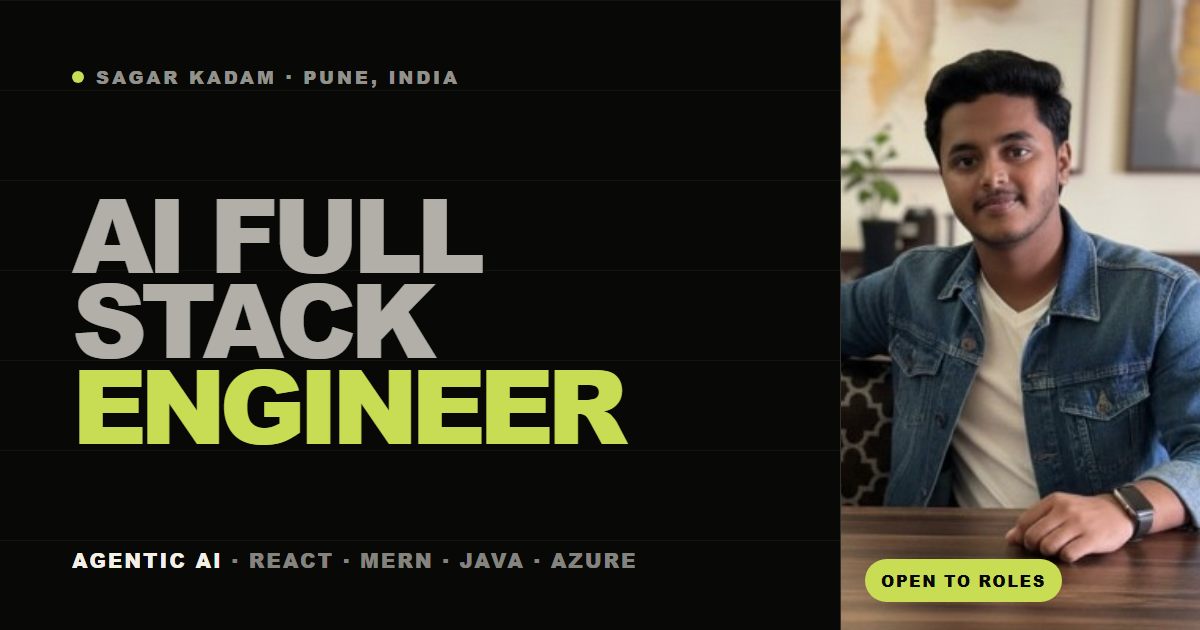
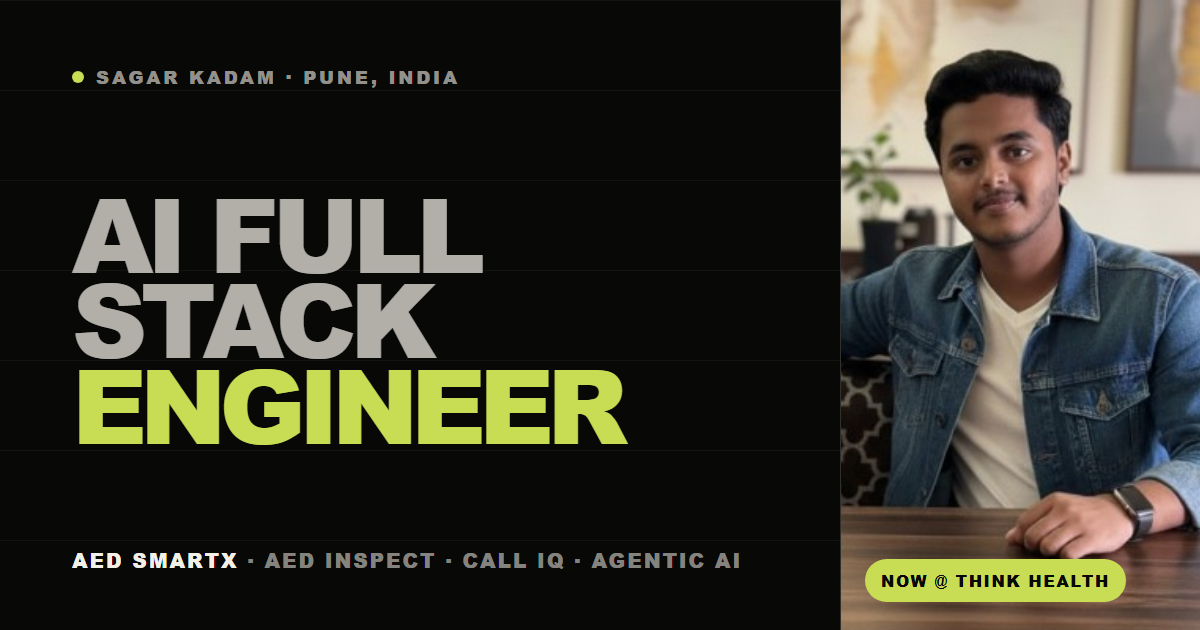
Reframe the site around the current Think Health role.
Replaces job-seeker copy (internships count, "targeting", "available for
work") with current-role metrics, marks SageAlpha as a prior role with
links to both companies, and updates the share image.

Changed region(s): [[0.0617, 0.8746, 0.6167, 0.9048], [0.74, 0.8746, 0.9558, 0.9651]]

diff --git a/src/App.jsx b/src/App.jsx
@@ -30,6 +30,7 @@ const PROFILE = {
   aedSmartxLive: "https://aedsmartx.com",
   aedInspectLive: "https://inspector.aedsmartx.com",
   thinkHealth: "https://www.thinkhealth.in",
+  sageAlpha: "https://sagealpha.ai",
   location: "Pune, India",
   graduation: "May 2026",
   heroImage: "/sagar-hero.png",
@@ -72,6 +73,7 @@ const navLinks = [
 const experience = [
   {
     company: "Think Health Care & Safety",
+    site: PROFILE.thinkHealth,
     role: "AI Full Stack Engineer",
     period: "Pune · Present",
     highlight: "AED SmartX + AED Inspect — live",
@@ -87,8 +89,9 @@ const experience = [
   },
   {
     company: "SageAlpha Analytics",
+    site: PROFILE.sageAlpha,
     role: "Frontend Developer & AI Integration Intern",
-    period: "Pune · Present",
+    period: "Pune · Prior role",
     highlight: "Call IQ — Live on Azure",
     body: "Designed and implemented React UI flows for Call IQ, an AI-powered call intelligence platform. Integrated agentic AI workflows for multi-step automation, real-time transcription insights, and automated follow-up support. Deployed frontend builds on Microsoft Azure Static Web Apps.",
     image: "https://images.unsplash.com/photo-1556761175-5973dc0f32e7?auto=format&fit=crop&w=1400&q=90",
@@ -255,11 +258,22 @@ const education = [
 ];
 
 const metrics = [
-  { value: "8.80", label: "BE CGPA", sub: "Computer Engineering", count: true, decimals: 2 },
-  { value: "4", label: "Internships", sub: "AI · React · Java · OSS", count: true, decimals: 0 },
-  { value: "Live", label: "Production", sub: "AED SmartX · Call IQ · SaaS" },
-  { value: "GSSoC", label: "Open Source", sub: "Contributor '25" },
-  { value: "2026", label: "Graduated", sub: "Pune · Remote OK" },
+  { value: "Now", label: "AI Full Stack Engineer", sub: "Think Health Care & Safety", live: true },
+  {
+    value: "4",
+    label: "Live products",
+    sub: "AED SmartX · AED Inspect · Call IQ · Mock Interview",
+    count: true,
+    decimals: 0,
+  },
+  {
+    value: "5",
+    label: "Teams shipped with",
+    sub: "Think Health · SageAlpha · Scalefull · Pegasus · GSSoC",
+    count: true,
+    decimals: 0,
+  },
+  { value: "8.80", label: "B.E. CGPA", sub: "Computer Engineering · 2026", count: true, decimals: 2 },
 ];
 
 const stackPillars = [
@@ -706,10 +720,10 @@ function Hero() {
               <span className="status-ping absolute inline-flex h-full w-full rounded-full bg-signal" />
               <span className="relative inline-flex h-2 w-2 rounded-full bg-signal" />
             </span>
-            Available for work
+            Building at Think Health
           </span>
           <span className="hero-meta text-[11px] font-black uppercase text-bone/55 md:text-xs">
-            {PROFILE.location} · Remote-friendly
+            {PROFILE.location}
           </span>
         </div>
 
@@ -825,9 +839,9 @@ function Hero() {
             </div>
             <div className="hero-proof mt-10 grid grid-cols-3 gap-4 border-t border-white/15 pt-6">
               {[
-                ["8.80", "CGPA", "BE CSE", 2],
-                ["Live", "Products", "AED SmartX · Call IQ"],
-                ["2026", "Grad", "Pune · Remote"],
+                ["Now", "Think Health", "AI Full Stack"],
+                ["4", "Live products", "AED · Call IQ · SaaS", 0],
+                ["8.80", "CGPA", "B.E. Computer Engg", 2],
               ].map(([value, label, sub, decimals]) => (
                 <div key={label} className="hero-proof-item">
                   <p
@@ -911,8 +925,12 @@ function Manifesto() {
                 <img className="about-portrait-img h-full w-full object-cover" src={PROFILE.heroImage} alt="Sagar Kadam" />
               </motion.div>
               <div className="mt-4 flex flex-wrap justify-center gap-2">
-                <span className="about-badge rounded-full bg-ink px-3 py-1.5 text-[10px] font-black uppercase text-bone">AI Engineer</span>
-                <span className="about-badge rounded-full bg-signal px-3 py-1.5 text-[10px] font-black uppercase text-ink">CGPA 8.80</span>
+                <span className="about-badge rounded-full bg-ink px-3 py-1.5 text-[10px] font-black uppercase text-bone">
+                  AI Full Stack Engineer
+                </span>
+                <span className="about-badge rounded-full bg-signal px-3 py-1.5 text-[10px] font-black uppercase text-ink">
+                  @ Think Health
+                </span>
               </div>
             </figure>
 
@@ -944,7 +962,16 @@ function Manifesto() {
               >
                 AED Inspect
               </a>
-              . Graduated {PROFILE.graduation}. I&apos;ve also built agentic AI at SageAlpha on{" "}
+              . Before that I built agentic AI at{" "}
+              <a
+                className="text-ink underline decoration-signal decoration-2 underline-offset-4 transition-colors hover:decoration-ink"
+                href={PROFILE.sageAlpha}
+                target="_blank"
+                rel="noreferrer"
+              >
+                SageAlpha
+              </a>{" "}
+              on{" "}
               <a
                 className="text-ink underline decoration-signal decoration-2 underline-offset-4 transition-colors hover:decoration-ink"
                 href={PROFILE.callIqLive}
@@ -956,7 +983,7 @@ function Manifesto() {
               , shipped a Gemini-powered interview SaaS on Render, and have enterprise Java internship experience.
             </p>
             <p className="about-sub mt-6 max-w-2xl border-t border-ink/10 pt-5 text-[11px] font-black uppercase leading-relaxed tracking-wide text-ink/45 md:text-xs lg:max-w-none">
-              Targeting AI Engineer · Frontend + AI Integration · Full Stack
+              AI Full Stack Engineer · Agentic AI · Health Tech · Full-Stack SaaS
             </p>
           </div>
 
@@ -973,8 +1000,12 @@ function Manifesto() {
               />
             </motion.div>
             <div className="mt-5 flex flex-col gap-2">
-              <span className="about-badge w-fit rounded-full bg-ink px-4 py-2 text-[10px] font-black uppercase text-bone">AI Engineer</span>
-              <span className="about-badge w-fit rounded-full bg-signal px-4 py-2 text-[10px] font-black uppercase text-ink">{PROFILE.location}</span>
+              <span className="about-badge w-fit rounded-full bg-ink px-4 py-2 text-[10px] font-black uppercase text-bone">
+                AI Full Stack Engineer
+              </span>
+              <span className="about-badge w-fit rounded-full bg-signal px-4 py-2 text-[10px] font-black uppercase text-ink">
+                @ Think Health · {PROFILE.location}
+              </span>
             </div>
           </figure>
         </div>
@@ -992,12 +1023,12 @@ function Manifesto() {
             <p className="text-xs font-black uppercase text-muted">{item.period}</p>
             <h3 className="about-edu-title mt-3 text-xl font-black leading-tight md:text-2xl">{item.degree}</h3>
             <p className="mt-2 text-sm font-bold text-muted">{item.school}</p>
-            <p className="mt-4 text-sm font-black uppercase text-signal">{item.detail}</p>
+            <p className="mt-4 text-sm font-black uppercase text-[#6f7d10]">{item.detail}</p>
           </motion.article>
         ))}
       </div>
 
-      <div className="about-metrics mx-auto mt-4 grid max-w-[1500px] gap-px overflow-hidden border border-ink/12 bg-ink/12 sm:grid-cols-2 lg:grid-cols-5">
+      <div className="about-metrics mx-auto mt-4 grid max-w-[1500px] gap-px overflow-hidden border border-ink/12 bg-ink/12 sm:grid-cols-2 lg:grid-cols-4">
         {metrics.map((metric) => (
           <motion.div
             key={metric.label}
@@ -1005,12 +1036,16 @@ function Manifesto() {
             whileHover={{ scale: 1.02 }}
             transition={{ type: "spring", stiffness: 500, damping: 30 }}
           >
-            <p
-              className="text-[clamp(36px,4.5vw,64px)] font-black leading-none tabular-nums transition-colors duration-300 group-hover:text-signal"
-              data-count={metric.count ? metric.value : undefined}
-              data-decimals={metric.decimals}
-            >
-              {metric.value}
+            <p className="flex items-center gap-3 text-[clamp(36px,4.5vw,64px)] font-black leading-none tabular-nums">
+              {metric.live && (
+                <span className="relative flex h-3 w-3 shrink-0" aria-hidden="true">
+                  <span className="status-ping absolute inline-flex h-full w-full rounded-full bg-signal" />
+                  <span className="relative inline-flex h-3 w-3 rounded-full bg-signal ring-2 ring-ink/10" />
+                </span>
+              )}
+              <span data-count={metric.count ? metric.value : undefined} data-decimals={metric.decimals}>
+                {metric.value}
+              </span>
             </p>
             <p className="mt-3 text-sm font-black uppercase leading-tight">{metric.label}</p>
             <p className="mt-1 text-xs font-bold uppercase text-muted">{metric.sub}</p>
@@ -1172,7 +1207,7 @@ function Experience() {
         <div className="lg:pt-2">
           <p className="experience-label text-sm font-black uppercase text-bone/55">Experience</p>
           <p className="experience-kicker mt-5 text-xs font-black uppercase tracking-[0.18em] text-signal">
-            AI Integration · React · Java · Open Source
+            Health Tech · AI · React · Java · Open Source
           </p>
         </div>
         <h2 className="experience-title max-w-[22ch] text-[clamp(32px,4.6vw,72px)] font-black uppercase leading-[0.9]">
@@ -1232,7 +1267,21 @@ function Experience() {
 
                   <div className="min-w-0">
                     <div className="experience-part flex flex-wrap items-baseline justify-between gap-3">
-                      <h3 className="text-[clamp(24px,3vw,42px)] font-black leading-[0.95]">{role.company}</h3>
+                      <h3 className="text-[clamp(24px,3vw,42px)] font-black leading-[0.95]">
+                        {role.site ? (
+                          <a
+                            className="relative z-10 inline-flex items-start gap-1.5 transition-colors duration-300 hover:text-signal"
+                            href={role.site}
+                            target="_blank"
+                            rel="noreferrer"
+                          >
+                            {role.company}
+                            <ArrowUpRight className="mt-[0.1em] h-[0.5em] w-[0.5em] opacity-50" strokeWidth={3} />
+                          </a>
+                        ) : (
+                          role.company
+                        )}
+                      </h3>
                       <span className="flex items-center gap-2 text-xs font-black uppercase text-bone/50">
                         {role.current && (
                           <span className="inline-flex items-center gap-1.5 rounded-full border border-signal/50 px-2 py-0.5 text-[10px] text-signal">
@@ -1621,7 +1670,7 @@ function Closing() {
               <span className="status-ping absolute inline-flex h-full w-full rounded-full bg-ink" />
               <span className="relative inline-flex h-2 w-2 rounded-full bg-ink" />
             </span>
-            Available for work
+            Open to conversations
           </p>
           <h2 className="closing-title max-w-5xl text-[clamp(48px,7.4vw,124px)] font-black uppercase leading-[0.84]">
             Let&apos;s build something impactful.
@@ -1630,11 +1679,11 @@ function Closing() {
 
         <div className="closing-side grid content-end gap-8">
           <p className="closing-part text-[clamp(22px,2.4vw,36px)] font-black leading-tight">
-            Open to Full-Stack and AI Engineering roles.
+            Building health-tech AI at Think Health.
           </p>
           <p className="closing-part max-w-xl text-base font-bold leading-relaxed text-muted md:text-lg">
-            B.E. Computer Engineering (8.80 CGPA) · Pune, India · Graduated May 2026. Available for remote and
-            on-site opportunities.
+            AI Full Stack Engineer in Pune, India. Always happy to talk about AI products, full-stack builds, and
+            interesting collaborations.
           </p>
 
           <div className="closing-part">
@@ -1712,8 +1761,8 @@ function Footer() {
             Sagar Kadam
           </a>
           <p className="mt-5 max-w-lg text-sm font-bold leading-relaxed text-bone/55">
-            AI Full Stack Engineer · B.E. Computer Engineering (8.80 CGPA) · Graduated May 2026. Available for remote
-            and on-site opportunities.
+            AI Full Stack Engineer at Think Health Care &amp; Safety · Previously SageAlpha · B.E. Computer
+            Engineering (8.80 CGPA), 2026.
           </p>
         </div>
 
